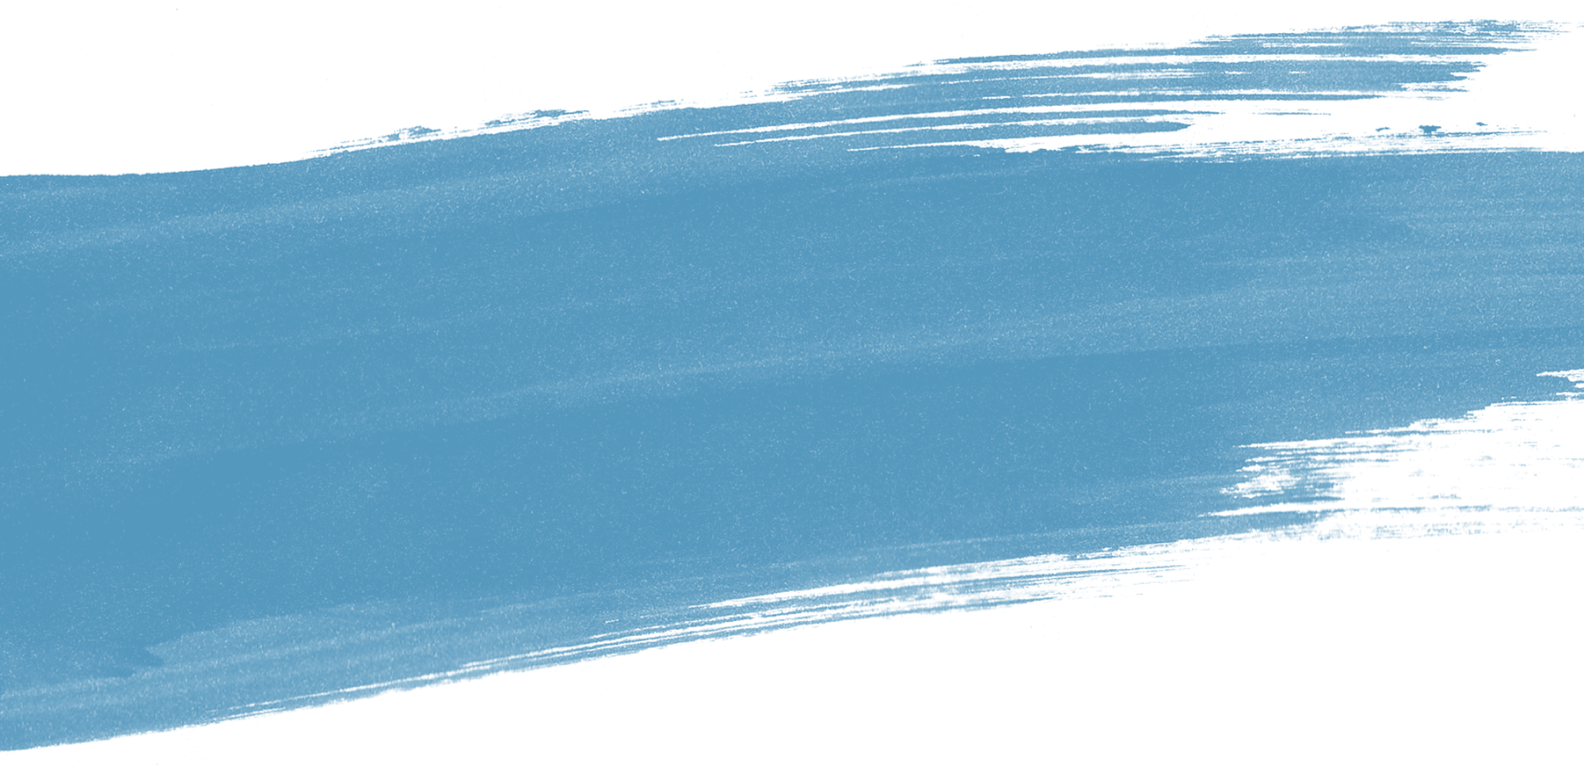
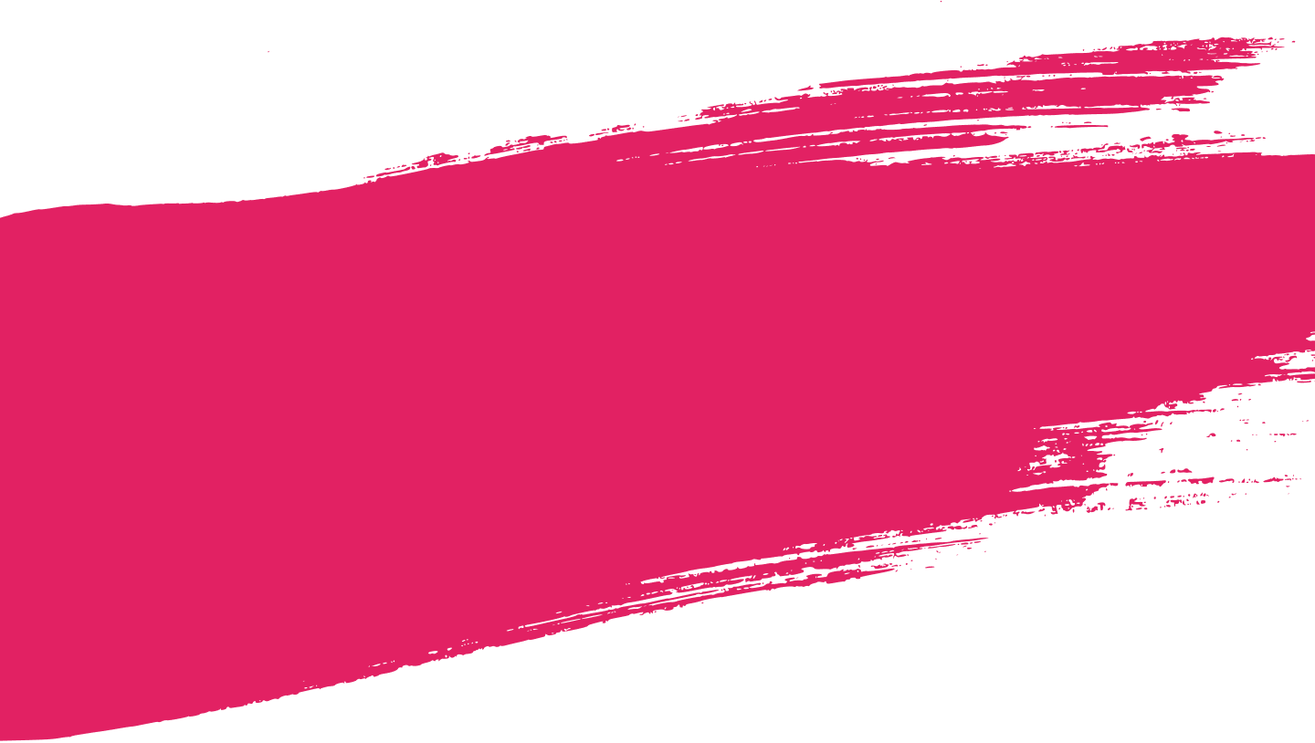
fixes

diff --git a/src/templates/logo.html b/src/templates/logo.html
@@ -1,0 +1,14 @@
+<svg width="322" height="78" viewBox="0 0 322 78" fill="none" xmlns="http://www.w3.org/2000/svg">
+<g clip-path="url(#clip0_177_252)">
+<path d="M232.686 64.6641L238.457 52.8574L237.9 51.3926C237.197 49.5176 236.611 48.2871 236.143 47.7012C235.693 47.0957 235.029 46.6758 234.15 46.4414C233.662 46.3242 233.418 46.1191 233.418 45.8262C233.418 45.3965 233.73 45.1816 234.355 45.1816C234.609 45.1816 235.02 45.2109 235.586 45.2695C236.289 45.3477 237.334 45.3867 238.721 45.3867C239.893 45.3867 241.035 45.3379 242.148 45.2402C242.617 45.2012 242.92 45.1816 243.057 45.1816C243.662 45.1816 243.965 45.3672 243.965 45.7383C243.965 46.0898 243.76 46.3145 243.35 46.4121L242.441 46.6172C241.66 46.793 241.27 47.3691 241.27 48.3457C241.27 48.7754 241.484 49.5566 241.914 50.6895L247.129 64.4004L250.205 57.2227L251.377 54.5273C252.354 52.3008 252.842 50.4551 252.842 48.9902C252.842 48.2285 252.598 47.6133 252.109 47.1445C251.621 46.6562 250.996 46.4121 250.234 46.4121C249.648 46.4121 249.355 46.207 249.355 45.7969C249.355 45.3867 249.6 45.1816 250.088 45.1816C250.381 45.1816 250.762 45.2012 251.23 45.2402C251.777 45.2988 252.744 45.3281 254.131 45.3281C255.576 45.3281 256.562 45.3086 257.09 45.2695C257.578 45.2305 257.949 45.2109 258.203 45.2109C258.613 45.2109 258.818 45.377 258.818 45.709C258.818 45.9824 258.604 46.1973 258.174 46.3535C257.471 46.5684 256.934 46.8711 256.562 47.2617C256.211 47.6328 255.83 48.2773 255.42 49.1953L247.129 68.6777C246.797 69.4199 246.328 69.791 245.723 69.791C245.156 69.791 244.756 69.4785 244.521 68.8535L239.307 55.1133L232.598 69.0586C232.363 69.5664 231.953 69.8203 231.367 69.8203C230.859 69.8203 230.527 69.6055 230.371 69.1758L223.428 51.2461L222.9 49.8398C222.275 48.2578 221.279 47.1836 219.912 46.6172C219.443 46.4219 219.209 46.1777 219.209 45.8848C219.209 45.4941 219.531 45.2988 220.176 45.2988C220.352 45.2988 220.693 45.3184 221.201 45.3574C221.807 45.416 222.871 45.4453 224.395 45.4453L227.5 45.3867L228.73 45.3574L229.404 45.5039C229.561 45.582 229.639 45.7285 229.639 45.9434C229.619 46.2168 229.434 46.4023 229.082 46.5L228.291 46.7051C227.393 46.9395 226.943 47.5254 226.943 48.4629C226.943 48.8926 227.227 49.8789 227.793 51.4219L232.686 64.6641ZM263.242 54.4395L263.213 55.084C263.213 58.4238 264.131 61.2363 265.967 63.5215C267.822 65.7871 270.098 66.9199 272.793 66.9199C274.922 66.9199 277.236 65.9629 279.736 64.0488C279.893 63.9316 280.039 63.8633 280.176 63.8438C280.449 63.8242 280.586 63.9805 280.586 64.3125C280.586 64.8984 279.902 65.7285 278.535 66.8027C275.996 68.7949 273.311 69.791 270.479 69.791C267.295 69.791 264.619 68.5801 262.451 66.1582C260.303 63.7363 259.229 60.7383 259.229 57.1641C259.229 53.7656 260.342 50.7969 262.568 48.2578C264.795 45.6992 267.402 44.4199 270.391 44.4199C273.652 44.4199 276.26 45.7773 278.213 48.4922C278.682 49.1562 279.16 50.0547 279.648 51.1875C280.137 52.3203 280.381 53.1113 280.381 53.5605C280.381 54.2051 279.746 54.5273 278.477 54.5273L276.309 54.498L274.316 54.4395H263.242ZM263.359 52.8574H273.291C274.834 52.8574 275.605 52.5449 275.605 51.9199C275.605 50.3965 274.941 48.9805 273.613 47.6719C272.305 46.3633 270.879 45.709 269.336 45.709C267.734 45.709 266.396 46.3535 265.322 47.6426C264.268 48.9121 263.613 50.6504 263.359 52.8574ZM291.045 48.1699C292.842 46.7441 294.375 45.7676 295.645 45.2402C296.934 44.6934 298.34 44.4199 299.863 44.4199C302.891 44.4199 305.361 45.5137 307.275 47.7012C309.209 49.8691 310.176 52.6621 310.176 56.0801C310.176 59.9277 309.014 63.1797 306.689 65.8359C304.385 68.4922 301.553 69.8203 298.193 69.8203C295.361 69.8203 292.715 68.8633 290.254 66.9492C289.941 66.6953 289.707 66.5781 289.551 66.5977C289.277 66.6172 288.877 67.1543 288.35 68.209C287.803 69.2637 287.393 69.791 287.119 69.791C286.768 69.791 286.592 69.5371 286.592 69.0293C286.592 68.834 286.66 68.4336 286.797 67.8281C286.953 67.1445 287.031 66.0508 287.031 64.5469V35.3379C287.031 33.1113 286.865 31.6758 286.533 31.0312C286.357 30.7187 286.074 30.416 285.684 30.123C285.312 29.8301 285.02 29.6934 284.805 29.7129L282.959 29.8594L282.725 29.8008C282.549 29.7227 282.461 29.5859 282.461 29.3906C282.48 29.0391 282.803 28.7949 283.428 28.6582C285.752 28.1309 287.92 27.2715 289.932 26.0801C290.186 25.9434 290.391 25.875 290.547 25.875C290.879 25.875 291.045 26.168 291.045 26.7539V48.1699ZM291.045 51.627V60.7969L291.016 61.9102L291.426 63.9023C291.992 65.1523 292.998 66.2168 294.443 67.0957C295.908 67.9551 297.412 68.3848 298.955 68.3848C301.455 68.3848 303.447 67.4863 304.932 65.6895C306.416 63.873 307.158 61.4512 307.158 58.4238C307.158 55.3184 306.172 52.5547 304.199 50.1328C302.227 47.7109 299.971 46.5 297.432 46.5C295.4 46.5 293.604 47.2617 292.041 48.7852C291.377 49.4297 291.045 50.377 291.045 51.627Z" fill="white"/>
+<path d="M214.009 24.552C214.009 24.552 218.375 25.9651 219.732 30.7314C219.953 30.8314 225.192 28.3316 227.843 22.1988C227.843 21.9321 240.72 7.06667 233.776 7C233.524 7.13331 216.524 18.3727 214.009 24.552Z" fill="#E22163"/>
+<path d="M218.686 32.7923L212.403 26.1081L209 29.7389L209.064 30.0215L209.704 29.5178C209.704 29.5178 209.239 30.1321 209.239 30.3226C209.25 30.3226 209.448 30.6605 209.448 30.6605C209.448 30.6605 210.385 29.7635 210.547 29.7512C210.53 29.7758 209.873 30.5806 209.762 31.0905C209.785 31.1151 210.187 31.6496 210.187 31.6496C210.187 31.6496 211.455 29.5301 212.205 29.3089C212.205 29.3335 210.926 30.814 211.181 32.866C211.193 32.8905 213.799 35.4877 213.799 35.4877C213.799 35.4877 214.909 36.0003 214.317 37.2601C214.333 37.3035 213.503 39.8492 214.951 39.8839C215.016 39.9187 216.678 40.0577 215.798 37.3383C215.789 37.2948 215.387 36.4086 215.807 35.9047C215.848 35.8613 218.686 32.7923 218.686 32.7923H218.686Z" fill="#E22163"/>
+<path d="M35.5097 58.01C35.5097 57.295 35.1797 54.82 33.6397 52.84C33.2547 52.29 32.6497 51.85 31.9897 51.465C31.1097 50.97 30.0097 50.53 28.6897 49.98C29.8447 49.705 31.8797 48.165 32.6497 46.405C32.9247 45.8 33.1997 44.755 33.3097 44.04C33.4197 43.435 33.5297 42.775 33.5297 42.115C33.5297 41.73 33.4197 41.015 33.3647 40.685C33.1997 39.915 32.9247 39.2 32.4847 38.54C32.2097 38.155 31.9347 37.77 31.5497 37.44C31.2197 37.11 30.8347 36.725 30.4497 36.45C30.0647 36.175 29.6797 36.01 29.2947 35.79C28.5247 35.35 27.6997 34.91 26.8197 34.58C25.9947 34.36 25.1697 34.305 24.4547 34.14C22.9697 33.92 21.5947 33.755 20.1097 33.7H19.2847C18.6247 33.7 18.0197 33.7 17.4147 33.755L14.8297 33.92C15.7647 34.36 17.4697 34.085 18.7897 34.14C18.4047 34.36 18.4047 34.635 17.6897 34.8H16.7547C16.7547 34.69 16.6997 34.635 16.5897 34.635C16.4797 34.635 16.4247 34.69 16.3697 34.8C15.9847 34.8 15.5997 34.855 15.2147 34.91C14.9397 35.02 14.8297 35.075 14.8297 35.13C14.8297 35.295 15.3797 35.35 15.5997 35.515H15.6547C15.7097 35.57 15.7097 35.57 15.7097 35.625L14.7197 35.405C14.2247 35.35 13.6747 35.185 13.1797 35.02C12.7947 34.91 12.4097 34.855 12.0797 34.855C11.8047 34.855 11.6397 34.855 11.5297 34.91C10.8147 39.805 10.3747 44.59 10.2097 49.265C10.1547 51.3 10.1547 53.445 10.1547 55.48V58.01C10.1547 61.53 10.1547 64.775 10.2097 68.075C10.2647 68.02 10.3747 68.02 10.4297 68.02C10.6497 68.02 10.8147 68.13 10.9797 68.13C11.1447 68.13 11.2547 68.075 11.3647 67.965C11.6397 67.855 11.6397 67.8 11.8597 67.635L12.0247 67.69C12.0247 67.855 12.1347 68.02 12.1897 68.185C12.1897 68.35 12.7397 68.79 12.9047 69.23C12.9597 69.395 13.0147 69.505 13.0147 69.615C13.0147 69.67 12.9597 69.725 12.9047 69.89C12.7397 70.055 12.4647 70.11 12.0797 70.11H22.9697C25.7747 69.945 28.2497 69.065 30.2847 67.745C30.8897 67.36 31.3847 66.755 31.8797 66.315C32.4847 65.765 33.0347 65.325 33.4747 64.72C33.9147 64.115 34.1347 63.51 34.4647 62.85C35.1797 61.365 35.5097 59.715 35.5097 58.01ZM17.6897 39.31H19.1747C21.7597 39.365 23.6297 39.805 24.8397 40.685C25.4447 41.07 26.2697 41.565 26.2697 42.225C26.2697 42.83 26.9297 43.985 25.9947 45.69C25.7747 46.185 25.3897 46.57 24.9497 46.9C23.5197 47.89 21.0447 48.22 17.3597 47.945C17.4147 45.91 17.4697 41.62 17.6347 39.695C17.6897 39.64 17.6897 39.475 17.6897 39.31ZM28.5797 58.12C28.5797 59.055 28.3047 59.935 27.6997 60.815C27.5347 61.09 26.7647 61.86 26.5447 62.135C25.0047 63.84 23.0247 64.5 19.6147 64.5H16.9747L16.9197 61.53V60.925C16.8647 60.43 16.8097 59.935 16.8097 59.44C16.8097 58.065 16.9747 56.635 16.9197 55.26C16.8647 53.115 17.0847 52.18 17.3047 49.54C17.5247 49.76 17.6347 49.98 17.6897 50.145C17.6897 50.42 17.3597 50.695 17.3047 50.97C17.3047 51.245 17.4147 51.52 17.6347 51.74C17.6347 51.795 18.1297 52.18 18.5147 52.675C18.9547 53.115 18.2397 53.005 18.2397 53.665C19.1197 53.39 20.1097 53.17 20.9897 52.785C20.9897 52.95 21.0997 53.115 21.1547 53.28C22.7497 53.28 23.8497 53.555 25.0047 53.775C25.9397 53.94 26.8747 54.71 27.4247 55.095C28.4147 55.92 28.5797 56.745 28.5797 58.12ZM60.6963 65.215C60.0363 63.73 59.5963 62.3 58.9913 60.925C58.8263 60.595 58.7163 60.21 58.5513 59.825C58.8813 59.715 59.2113 59.55 59.5413 59.385C61.9613 58.175 64.4363 54.435 64.7113 51.19C63.8863 48.44 63.1163 46.68 61.3563 45.14C57.5613 41.675 53.9863 41.345 48.2113 41.345C46.6713 41.345 44.9113 41.4 44.9113 41.455C45.1313 42.115 49.0363 41.95 49.0363 42.225C49.0363 42.5 48.3763 42.5 47.9363 42.5H47.5513C47.2763 42.5 46.8913 42.5 46.6162 42.445C45.9563 42.445 45.1863 42.39 44.8013 42.555C44.4713 42.61 44.3063 42.665 44.3063 42.72C44.3063 42.885 45.0213 42.94 45.4062 43.16C45.6813 43.325 45.7912 43.49 45.7912 43.655V44.095C45.7912 44.15 45.6263 44.205 45.2413 44.205H44.9663C44.2513 44.205 43.4813 43.93 42.6563 43.93C42.3813 43.93 42.1063 43.985 41.8313 44.095V69.615C41.8313 69.56 41.8863 69.56 41.9963 69.56L42.4913 69.615L42.8763 69.505C43.2613 69.23 43.5913 68.79 44.0313 68.79L44.3063 68.845C44.5263 68.9 44.8563 69.34 45.0763 69.505C45.2413 69.56 45.3513 69.615 45.4613 69.615C45.6263 69.615 45.7912 69.56 46.0663 69.505C46.3413 69.34 47.1113 68.955 47.7163 68.955C48.1013 68.955 47.9913 69.395 48.3213 69.56C48.3213 68.735 48.2663 67.91 48.1013 67.03V61.915C49.7513 61.915 51.1263 61.86 52.2263 61.75C52.5013 62.63 52.8313 63.455 53.2163 64.28C53.9313 65.985 54.6463 67.47 55.5263 69.175C56.5713 71.1 57.5063 72.75 58.5513 74.51C58.8263 74.29 59.1013 74.29 59.4863 74.015C59.8713 73.63 60.0363 73.245 60.6413 73.08L60.8063 73.025C60.9713 73.025 61.2463 73.135 61.4663 73.135C61.8513 73.08 62.0713 72.86 62.2913 72.695C62.5663 72.42 63.4463 71.595 64.0513 71.595C64.2163 71.595 64.3263 71.65 64.4363 71.815L62.7313 69.175C61.9063 67.91 61.3013 66.48 60.6963 65.215ZM48.2663 55.92L48.3763 48.11L48.2663 47.065C48.9813 47.12 49.7513 47.065 50.5763 47.23C55.0863 47.56 54.2613 47.56 56.6813 48.66C58.9363 49.925 58.3863 55.425 52.3913 55.645C51.2913 55.7 50.1363 55.92 48.9813 55.92H48.2663ZM70.8085 41.73V41.785C70.8635 46.625 70.2035 55.48 70.0385 58.89C69.8735 62.41 69.7085 65.93 69.6535 69.615C70.0935 69.395 70.5335 69.725 70.9185 69.45C71.5235 69.065 72.0185 68.625 72.6235 68.79C73.0085 68.845 73.2285 69.395 73.5035 69.615C73.8885 69.78 74.2735 69.67 74.6585 69.615C74.8235 69.615 76.4735 68.515 77.2435 69.835C77.2985 67.91 77.2435 66.205 77.2435 64.28C77.2435 61.585 77.4085 58.945 77.6835 56.305C77.6835 53.94 78.2335 49.32 78.2335 46.13C78.2335 44.315 78.0135 42.665 78.0135 40.96C77.4085 41.84 77.7385 43.215 77.6835 44.92C77.2985 44.535 76.9685 44.48 76.7485 43.82C76.5835 43.105 76.8585 41.895 76.6385 41.18C76.3635 40.465 74.8785 41.895 74.4385 41.895C73.2835 41.895 71.9635 41.235 70.8085 41.73ZM107.019 67.855V65.38L107.734 64.885C107.514 64.885 107.459 64.72 107.349 64.5C107.349 64.39 107.294 64.335 107.074 64.17C107.019 64.17 107.019 64.005 107.019 63.895C107.074 62.52 107.129 61.97 107.129 60.76V57.075L106.964 54.82C106.799 55.48 106.689 55.865 106.689 56.58C106.414 56.36 106.139 56.36 105.974 56.085C105.974 56.03 105.919 55.975 105.919 55.865L105.974 55.315C105.974 55.205 105.919 55.095 105.864 54.985C105.809 54.875 105.754 54.82 105.699 54.82C105.589 54.82 105.589 55.04 105.424 55.15L105.149 55.205V54.655L105.094 52.62C105.094 52.345 105.094 52.07 105.204 51.52C104.874 52.07 104.489 52.18 103.994 52.235C103.829 52.29 103.609 52.29 103.389 52.29L101.299 52.235L99.0437 52.29H96.8987C96.5687 52.345 96.2387 52.565 95.8537 52.565C96.1837 52.675 96.4037 52.73 96.6787 52.73C96.5687 52.95 96.6237 53.225 96.5137 53.39H96.1837C96.0737 53.39 96.0187 53.445 95.9637 53.5L95.8537 53.61C95.8537 53.775 96.0187 53.775 96.0737 53.885C96.1287 54.05 96.1287 54.16 96.1287 54.38V57.845C96.0737 57.955 96.0737 58.12 96.0737 58.285C96.0737 58.45 96.0737 58.56 96.1287 58.67H100.309V61.53L100.034 61.585C99.0987 62.135 98.1637 62.245 97.1187 62.52C96.2387 62.85 95.6337 62.905 95.0837 62.96H94.4787C93.9837 62.96 93.4887 62.905 92.9937 62.795C92.5537 62.685 92.0037 62.355 91.6737 62.08C90.3537 60.65 89.9687 59.22 89.9687 56.415C89.9687 55.425 89.9687 54.655 90.1337 53.83C90.2987 53.005 90.4087 52.125 90.6837 51.355C90.8487 50.585 91.1237 49.98 91.3987 49.43C91.8937 48 94.2037 47.065 95.9087 47.56C96.5687 47.835 97.1187 48 97.8337 48.275C99.1537 48.77 100.419 49.43 101.629 50.53C102.069 49.54 100.089 49.045 99.2637 48.44L97.7237 47.78C97.2287 47.78 96.5137 47.175 96.0187 47.01C96.2387 46.955 96.3487 46.845 96.7337 46.79C96.7887 46.79 96.8437 46.735 97.0087 46.735C97.2287 46.735 97.5037 46.79 97.8337 46.9C98.4387 47.065 99.1537 47.395 99.8687 47.835C100.584 48.22 101.299 48.66 101.904 48.825C102.179 48.935 102.344 48.99 102.454 48.99C102.454 48.88 102.454 48.825 102.399 48.77L101.519 47.945C101.354 47.78 101.299 47.56 101.299 47.34C101.299 47.175 101.299 47.065 101.354 47.01L101.849 46.57C102.069 46.13 102.619 45.745 103.059 45.36C103.444 45.085 103.774 44.7 103.774 44.205L103.609 43.765C102.509 43.105 101.354 42.555 100.309 42.06C98.4937 41.345 97.1187 41.18 95.0287 41.18C94.4237 41.18 92.9387 41.235 92.2787 41.345C91.6187 41.455 91.0137 41.675 90.4637 41.895C89.8037 42.225 88.9787 42.5 88.4287 42.995C87.8787 43.325 87.4387 43.82 87.0537 44.315C86.6137 44.81 85.8987 45.25 85.6787 45.8C85.2937 46.295 85.0737 46.79 84.9087 47.285C84.4137 48.385 84.0837 49.43 83.9187 50.42C83.5887 51.465 83.4787 52.4 83.4237 53.39V55.7C83.2587 56.14 83.2037 56.58 83.2037 57.075C83.3687 58.395 83.4237 59.66 83.6987 60.98C83.8637 61.64 84.0287 62.3 84.2487 63.015L85.2387 64.995C85.7887 65.6 86.1187 66.205 87.3837 67.085C87.9887 67.47 88.5937 67.855 89.3087 68.24C90.1887 68.735 91.0137 68.9 91.8387 69.23C92.7187 69.395 93.5437 69.505 94.4237 69.505C95.3037 69.505 96.0737 69.395 96.7887 69.285C97.5587 69.12 98.3837 68.9 99.0987 68.735C99.5937 68.515 100.199 68.35 100.749 68.185V69.89L101.684 69.835C102.894 69.67 103.169 69.56 103.554 69.56H103.829C103.994 69.56 104.104 69.67 104.434 69.835H105.094C105.314 69.78 106.029 69.615 106.579 69.615C106.854 69.615 106.799 69.89 107.074 69.89C107.074 69.175 107.074 68.46 107.019 67.855ZM133.974 46.46C133.754 46.075 133.424 46.075 133.259 45.415V42.555C133.149 42.28 133.094 42.17 133.039 42.17C132.874 42.17 132.764 42.72 132.544 42.995C132.379 43.215 132.214 43.325 131.994 43.325L131.279 43.215C130.564 43.215 129.684 42.83 128.859 42.83C128.584 42.83 128.309 42.885 128.034 42.995C127.869 47.67 127.484 48.055 127.044 52.675L121.324 52.62L118.739 52.565V50.53C118.739 49.43 118.739 48.11 118.794 46.735C118.849 46.24 118.849 45.8 118.849 45.305V41.4C118.299 42.115 118.464 43.82 118.299 45.415C118.079 45.14 117.694 45.03 117.529 44.315V42.335L117.584 41.95L117.529 41.675C117.474 41.4 117.419 41.29 117.364 41.29C117.199 41.29 117.089 41.84 116.924 42.115C116.759 42.28 116.594 42.39 116.374 42.39L113.239 41.895C112.964 41.895 112.689 41.95 112.414 42.06C112.249 45.8 112.139 56.195 112.139 63.125C112.139 65.875 112.139 68.075 112.194 69.12C112.359 69.065 112.469 69.01 112.524 69.01L113.019 69.065C113.129 69.065 113.184 69.065 113.239 69.01C113.679 68.625 114.229 68.185 114.669 68.185C115.109 68.35 115.274 68.79 115.549 68.955C115.714 69.01 115.824 69.065 115.934 69.065C116.154 69.065 116.319 69.01 116.539 68.955C116.704 68.9 117.584 68.35 118.244 68.35C118.629 68.35 118.574 68.955 118.904 69.01L118.574 58.285H126.384L126.164 62.19C125.944 65.985 125.724 67.195 125.724 71.1C125.779 71.045 125.944 70.99 126.109 70.99L126.604 71.045C126.659 71.045 126.714 71.045 126.769 70.99C127.264 70.605 127.704 70.11 128.199 70.11L128.364 70.165C128.639 70.33 128.749 70.77 129.134 70.99C129.299 71.045 129.409 71.1 129.464 71.1C129.574 71.1 129.794 71.045 130.069 70.99C130.234 70.99 130.729 70.605 131.334 70.385C131.499 70.385 131.554 70.33 131.719 70.33C132.214 70.33 132.104 70.935 132.434 71.155V68.405C132.434 65.545 134.249 50.86 134.469 47.835C134.469 47.67 134.524 47.12 134.524 46.515C134.524 45.36 134.469 44.755 134.304 44.755C134.139 44.755 134.029 45.305 133.974 46.46ZM153.298 48.275C160.008 47.615 160.008 47.45 160.008 47.285V46.9C160.008 46.735 160.008 46.625 159.953 46.57C159.733 46.075 159.348 45.69 159.348 45.25V44.975C159.348 44.7 159.843 44.48 159.898 44.205C159.953 44.15 159.953 43.985 159.953 43.765C159.953 43.49 159.953 43.325 159.898 43.215C159.898 43.16 159.623 42.555 159.458 41.95C159.403 41.84 159.348 41.675 159.348 41.455C159.348 41.07 159.788 41.235 159.953 40.85C158.248 40.905 153.683 40.85 151.428 41.07C149.173 41.125 147.138 41.125 144.993 41.125L140.593 41.235C140.098 41.235 139.603 40.96 139.108 41.18L139.273 41.235C140.153 41.455 140.868 41.51 141.968 41.675C141.693 41.95 141.638 42.28 141.143 42.445C141.033 42.5 140.868 42.5 140.703 42.5C140.428 42.5 140.263 42.5 140.153 42.445L139.658 42.39C139.493 42.39 139.383 42.445 139.218 42.445C139.053 42.5 138.943 42.61 138.943 42.665C138.943 42.83 139.273 42.94 139.493 43.105C139.603 43.27 139.658 43.49 139.658 43.655C139.658 43.82 139.603 44.04 139.548 44.425C139.493 45.03 139.328 45.47 139.163 46.075V46.295L139.108 46.57C139.053 46.845 138.998 47.065 138.998 47.23L139.108 47.67L139.603 47.725C143.343 48 145.213 48.165 144.443 48.165H146.478C146.533 57.735 146.643 66.645 146.808 69.89C146.863 69.835 147.028 69.835 147.193 69.835H147.523C147.688 69.835 147.853 69.78 147.963 69.725C148.403 69.45 148.843 69.01 149.338 69.01C149.778 69.065 150.053 69.505 150.273 69.67C150.328 69.725 150.493 69.725 150.658 69.725C150.933 69.725 151.098 69.67 151.318 69.615C151.483 69.56 151.923 68.955 152.528 68.955C152.968 68.955 153.078 69.505 153.628 69.615C153.573 67.91 153.518 66.425 153.353 64.885V64.61C153.188 63.345 153.133 62.19 153.133 60.925V55.535C153.298 55.095 153.243 54.765 153.243 54.38V50.09C153.243 49.485 153.243 48.88 153.298 48.275ZM179.305 62.905C175.785 62.41 171.88 61.97 170.615 61.97L170.67 60.21L170.725 59.22C171.66 59.165 172.65 59.11 173.53 58.945L179.47 58.45L179.415 57.35C179.25 56.91 179.03 56.47 179.03 55.975C179.03 55.48 179.25 55.37 179.305 54.985V54.71C179.305 54.49 179.305 54.215 179.25 53.995C179.25 53.83 178.92 52.73 178.92 52.07C178.92 51.795 178.975 51.63 179.085 51.63C178.425 51.685 177.71 51.74 176.885 51.905L171.935 52.125L171.165 52.18L171.385 48.88C171.88 48.88 172.375 48.935 172.87 48.99C175.015 48.99 177.93 49.375 179.305 49.54L181.56 49.65C181.45 49.155 180.57 49.265 179.91 49.1C180.075 48.825 180.075 48.44 180.46 48.385L181.285 48.44C181.45 48.44 181.56 48.44 181.615 48.385C181.725 48.33 181.78 48.275 181.78 48.22C181.78 48.055 181.56 47.945 181.505 47.78C181.45 47.67 181.45 47.505 181.45 47.34C181.45 47.065 181.505 46.79 181.56 46.405C181.725 45.91 181.78 45.415 181.945 44.81C182.055 44.37 182.11 43.93 182.11 43.49V43.215C180.845 42.94 179.69 42.775 178.425 42.555C176.885 42.335 174.905 42.17 173.09 42.17H169.955C169.955 41.675 169.955 41.125 169.79 40.74C169.735 40.52 169.625 40.41 169.57 40.41C169.405 40.41 169.405 40.96 169.185 41.235C169.02 41.455 168.855 41.565 168.635 41.565L168.03 41.51H167.81C167.37 41.51 166.985 41.4 166.49 41.345L165.995 41.29C165.61 41.29 165.28 41.345 165.005 41.51C165.06 42.995 165.115 44.315 165.115 45.8V48.825C165.115 51.19 165.005 49.98 164.895 52.4L164.4 63.675C164.4 65.655 164.455 67.635 164.51 69.615C164.565 69.56 164.675 69.56 164.785 69.56L165.225 69.615C165.28 69.615 165.39 69.56 165.555 69.505C165.995 69.12 166.325 68.68 166.82 68.68L167.755 69.45C167.92 69.505 168.03 69.56 168.085 69.56C168.25 69.56 168.47 69.45 168.635 69.395C168.8 69.395 169.24 69.065 169.845 68.9L170.285 68.79L170.835 68.68H171.33C172.155 68.68 175.345 69.175 179.69 69.945C180.625 70.22 181.45 70.22 182.33 70.44C182.385 69.945 181.23 69.835 180.405 69.56C180.68 69.34 180.79 69.065 181.175 68.9C181.56 68.9 181.89 69.175 182.275 69.175C182.385 69.175 182.44 69.175 182.495 69.12C182.66 69.065 182.715 69.01 182.715 68.955C182.715 68.79 182.55 68.68 182.385 68.46L182.33 68.185C182.33 67.8 182.495 67.47 182.55 67.195C182.715 66.59 182.935 66.15 183.155 65.545C183.32 65.105 183.375 64.665 183.375 64.17V63.95C182 63.565 180.68 63.29 179.305 62.905ZM179.085 51.63C179.14 51.63 179.14 51.63 179.14 51.63H179.085ZM210.685 44.425C210.465 44.04 210.025 43.985 209.86 43.27C209.805 43.105 209.805 42.885 209.805 42.555L209.86 41.29C209.86 40.905 209.805 40.685 209.75 40.41C209.695 40.19 209.585 40.08 209.53 40.08C209.365 40.08 209.31 40.575 209.035 40.96C208.87 41.18 208.595 41.29 208.265 41.29C207.055 41.235 206.67 41.125 206.065 40.96L205.9 40.905C205.625 40.85 205.35 40.795 205.185 40.795C204.91 40.795 204.8 40.905 204.415 41.07C204.415 43.71 204.195 46.24 204.14 48.825C203.81 56.47 203.59 55.315 203.48 59.99C202.82 58.45 201.665 56.195 201.005 54.93C199.905 52.73 199.08 49.98 198.145 47.835L196.495 43.765C196.495 44.59 196.66 45.745 197.265 47.01C196.88 46.845 196.605 47.01 196.385 46.79V46.35C196.385 44.37 196.055 42.665 196.055 40.85C195.285 41.73 195.78 43.325 195.725 44.92C195.34 44.7 195.01 44.645 194.845 43.93L194.735 41.235C194.625 40.96 194.57 40.85 194.515 40.85C194.35 40.85 194.295 41.4 193.91 41.675C193.745 41.895 193.47 42.005 193.195 42.005L192.48 41.95C191.655 41.95 190.775 41.565 189.84 41.565C189.565 41.565 189.235 41.62 188.905 41.73L188.355 71.54C188.575 71.54 188.52 71.43 188.685 71.43L189.29 71.485C189.4 71.485 189.51 71.485 189.565 71.43C190.06 71.045 190.5 70.605 190.995 70.605L191.215 70.66C191.6 70.715 191.765 71.21 192.15 71.43C192.205 71.485 192.37 71.485 192.535 71.485C192.81 71.485 193.03 71.485 193.195 71.43C193.36 71.375 193.855 70.77 194.68 70.77C195.065 70.77 195.065 71.485 195.45 71.485C195.45 70.77 195.56 68.24 195.725 62.63C195.725 61.97 195.78 58.23 195.835 57.57L198.75 63.235C199.41 64.5 201.5 68.405 201.83 69.505L203.095 69.395C203.59 69.12 203.975 68.57 204.58 68.57H204.8C205.185 68.735 205.295 69.175 205.68 69.395C205.79 69.45 205.955 69.45 206.175 69.45C206.945 69.45 206.835 69.285 208.155 68.9C208.32 68.845 208.485 68.79 208.705 68.79C209.145 68.79 208.87 69.505 209.365 69.505C209.86 61.805 210.905 50.86 211.29 45.855C211.4 44.15 211.18 42.83 211.015 42.83C210.905 42.83 210.795 43.38 210.685 44.425Z" fill="#E22163"/>
+</g>
+<defs>
+<clipPath id="clip0_177_252">
+<rect width="322" height="78" fill="white"/>
+</clipPath>
+</defs>
+</svg>
+    

diff --git a/src/templates/stages/components/navigation.html b/src/templates/stages/components/navigation.html
@@ -3,7 +3,7 @@
     <a href="#stage1" class="stage-navigation__a">Консультация</a>
   </li>
   <li class="stage-navigation__link">
-    <a href="#stage2" class="stage-navigation__a">тз</a>
+    <a href="#stage2" class="stage-navigation__a">ТЗ</a>
   </li>
   <li class="stage-navigation__link">
     <a href="#stage3" class="stage-navigation__a">Прототип</a>
@@ -12,10 +12,10 @@
     <a href="#stage4" class="stage-navigation__a">Дизайн</a>
   </li>
   <li class="stage-navigation__link">
-    <a href="#stage5" class="stage-navigation__a">Фронтенд</a>
+    <a href="#stage5" class="stage-navigation__a">Frontend</a>
   </li>
   <li class="stage-navigation__link">
-    <a href="#stage6" class="stage-navigation__a">БЭкенд</a>
+    <a href="#stage6" class="stage-navigation__a">Backend</a>
   </li>
   <li class="stage-navigation__link">
     <a href="#stage7" class="stage-navigation__a">Релиз</a>

diff --git a/src/sass/_button.scss b/src/sass/_button.scss
@@ -1,5 +1,4 @@
 .button {
-  //background: url('../img/backgroud-button.svg') no-repeat center;
   background-color: transparent;
   background-size: cover;
   padding: 10px 50px;
@@ -10,8 +9,15 @@
   font-weight: 600;
   border-radius: 50px;
   border: 1px solid white;
+  transition: 0.4s ease all;
   &:hover {
-    color: white;
     text-decoration: none;
+  }
+  &__red {
+    &:hover {
+      color: #fff;
+      background-color: #e22163;
+      border: 1px solid #e22163;
+    }
   }
 }

diff --git a/src/sass/app.scss b/src/sass/app.scss
@@ -152,12 +152,15 @@ body {
   color: white;
   max-width: 1300px;
   &__button {
-    margin: 0 auto;
+    margin: 90px auto 0;
     display: block;
-    margin-top: 90px;
     background-color: #fec859;
     border: none;
     color: black;
+    transition: 0.4s ease all;
+    &:hover {
+      background-color: #c59739;
+    }
   }
   background: url('../img/question-background.svg') center no-repeat;
   background-size: contain;

diff --git a/src/templates/header.html b/src/templates/header.html
@@ -1,8 +1,8 @@
 <header class="header">
   <div class="container">
     <div class="header__inner">
-      <p class="logo">BrightenWeb</p>
-      <a href="#modal" id="modal-link" class="button">Отправить заявку</a>
+      <include src="src/templates/logo.html"></include>
+      <a href="#modal" id="modal-link" class="button button__red">Отправить заявку</a>
     </div>
   </div>
 </header>

diff --git a/src/templates/footer.html b/src/templates/footer.html
@@ -3,7 +3,7 @@
 <footer class="footer">
   <div class="footer__left">
     <a href="" class="footer__logo-link">
-      <img src="../img/logo-footer.svg" alt="" />
+      <include src="src/templates/logo.html"></include>
     </a>
     <a href="" class="footer__social-link">
       <img src="../img/telegram.svg" alt="" class="footer__icon" />

diff --git a/src/js/stages.js b/src/js/stages.js
@@ -51,3 +51,13 @@
 //     }, 800);
 //   }
 // }
+
+$('.stage-navigation__a').on('click', function(e) {
+  e.preventDefault();
+  let stageID = $(this).attr('href');
+  $(stageID)[0].scrollIntoView({
+    block: 'center',
+    behavior: 'smooth',
+    inline: 'center',
+  });
+});

diff --git a/src/sass/components/form.scss b/src/sass/components/form.scss
@@ -21,6 +21,11 @@
     margin: 93px auto;
     display: block;
     width: 294px;
+    &:hover {
+      background-color: #35769a;
+      color: #fff;
+      border-color: #35769a;
+    }
   }
   &__form {
     margin-top: 55px;

diff --git a/src/sass/components/offer_button.scss b/src/sass/components/offer_button.scss
@@ -17,6 +17,11 @@
   &__btn {
     color: #c378c9;
     background-color: white;
+    &:hover {
+      background-color: #95569a;
+      color: #fff;
+      border-color: #95569a;
+    }
   }
   &__inner {
     display: flex;

diff --git a/src/sass/components/offer.scss b/src/sass/components/offer.scss
@@ -27,6 +27,11 @@
   }
   &__btn {
     align-self: center;
+    &:hover {
+      color: #5598be;
+      background-color: #fff;
+      border-color: #5598be;
+    }
   }
   @media (max-width: 1023px) {
     &__inner {

diff --git a/src/js/app.js b/src/js/app.js
@@ -5,7 +5,7 @@ var optionsBackground, bsBackground;
 
 optionsBackground = {
   points: 10,
-  inkAmount: 10,
+  inkAmount: 20,
   size: 300,
   frames: 10,
   frameAnimation: true,
